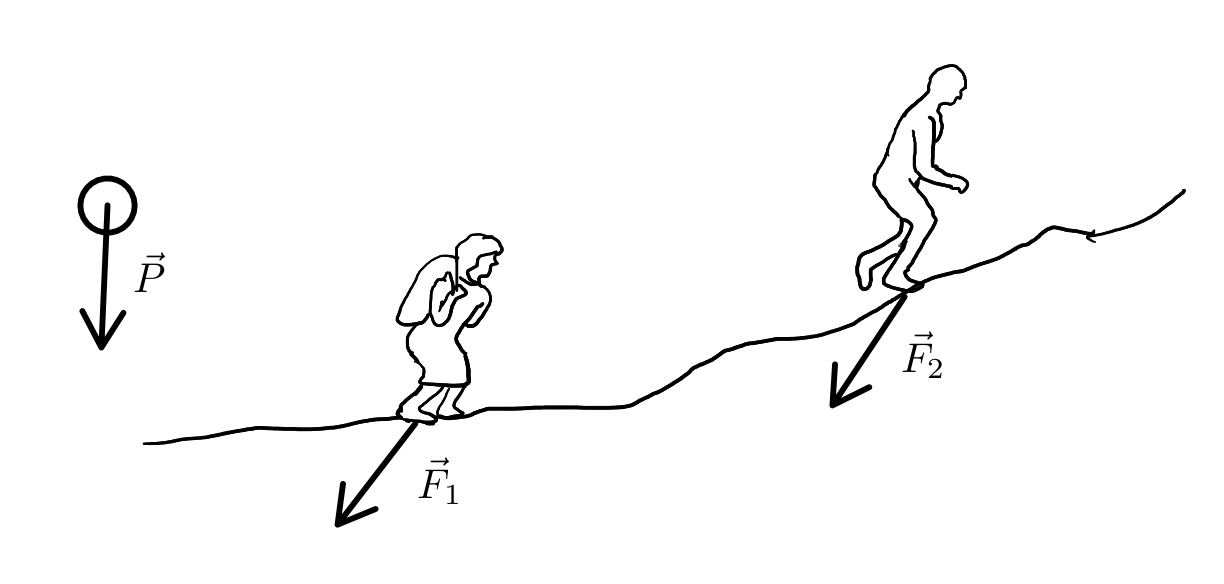
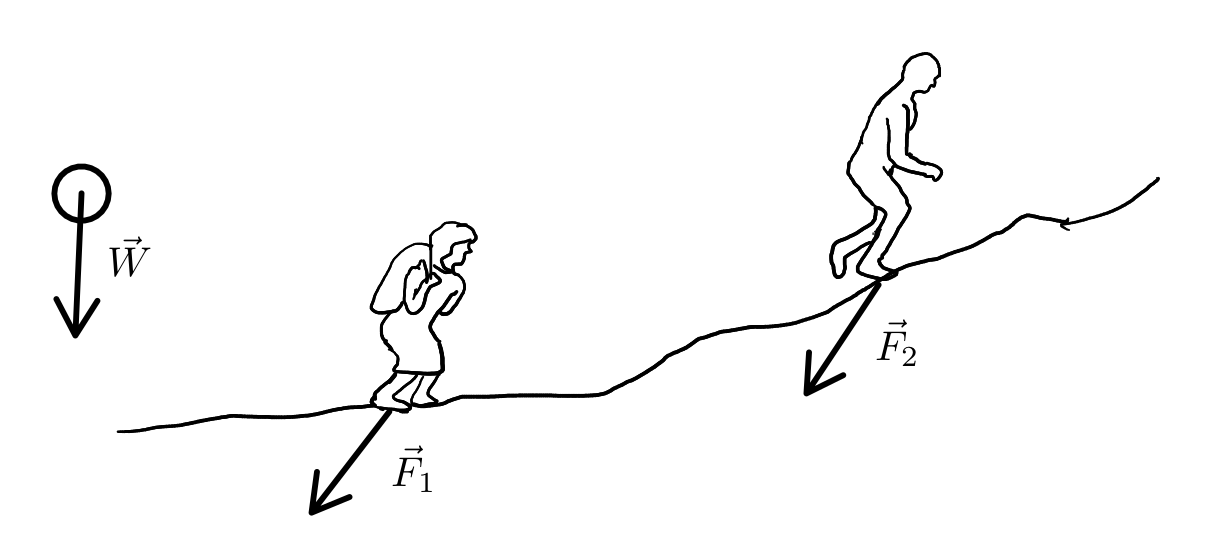
More contents for the vectors chapter.

diff --git a/mechanics/vectors.html b/mechanics/vectors.html
@@ -47,7 +47,6 @@ can be combined with the same rules as for real numbers: for example,
 we can add a mass, in kg, with other masses also in kg; we can divide
 a distance in km by a time in hours, to give a speed in km/h, and so
 on.</p>
-
 <p>In contrast to scalars, a <span class="concept">vector</span> is a
 physical quantity that in addition to
 its <span class="concept">magnitude</span> it also has
@@ -61,12 +60,12 @@ vectors by letters with an arrow over them ,for instance a force
 bars: <math id="eqn2" display="inline"><mrow><mo stretchy="false">&#x0007C;</mo><mover><mrow><mi>F</mi></mrow><mo stretchy="false">&#x02192;</mo></mover><mo stretchy="false">&#x0007C;</mo></mrow></math>. In cases when <math id="eqn3" display="inline"><mrow><mi>F</mi></mrow></math> cannot be confused with other
 scalar quantities, we will simply write the magnitude of <math id="eqn4" display="inline"><mrow><mover><mrow><mi>F</mi></mrow><mo stretchy="false">&#x02192;</mo></mover></mrow></math> as
 <math id="eqn5" display="inline"><mrow><mi>F</mi></mrow></math>. The magnitude of a vector is a scalar.</p>
-<p>Figure 1.1 shows three forces; the weight <math id="eqn6" display="inline"><mrow><mover><mrow><mi>P</mi></mrow><mo stretchy="false">&#x02192;</mo></mover></mrow></math> of a 10 kg
+<p>Figure 1.1 shows three forces; the weight <math id="eqn6" display="inline"><mrow><mover><mrow><mi>W</mi></mrow><mo stretchy="false">&#x02192;</mo></mover></mrow></math> of a 10 kg
 sphere, which has magnitude of 98 N and points downwards in the
 vertical, and the forces <math id="eqn7" display="inline"><mrow><msub><mover><mrow><mi>F</mi></mrow><mo stretchy="false">&#x02192;</mo></mover><mn>1</mn></msub></mrow></math> and <math id="eqn8" display="inline"><mrow><msub><mover><mrow><mi>F</mi></mrow><mo stretchy="false">&#x02192;</mo></mover><mn>2</mn></msub></mrow></math> exerted by one
 the feet of a woman and a man on the ground.</p>
 <figure class="center" id="vectors-forces">
-<img class="fig" src="img/vectors-forces.png" style="width:26.250em;max-width:100%;height:auto">
+<img class="fig" src="img/vectors-forces.png" style="width:25.326em;max-width:100%;height:auto">
 <figcaption><b>Figure 1.1:</b> Three examples of forces: the weight of
 an object and the forces exerted by two persons on the
 ground.</figcaption>
@@ -115,7 +114,7 @@ two forces, obtained by placing <math id="eqn19" display="inline"><mrow><msub><m
 </div>
 <p>and the distance QS is then <math id="eqn22" display="inline"><mrow><mrow><mi mathvariant="normal">Q</mi><mi mathvariant="normal">R</mi></mrow><mo>&#x0002B;</mo><mrow><mi mathvariant="normal">R</mi><mi mathvariant="normal">S</mi></mrow><mo>&#x0003D;</mo><mn>600</mn></mrow></math>. The
 magnitude of the total force is the hypotenuse of the triangle PQR
-which is obtained from Pythagoras theorem:</p>
+which is obtained from the Pythagorean theorem:</p>
 <div class="eqnalign">
 <math id="eqn23" display="inline"><mrow><mrow><mi>F</mi><mo>&#x0003D;</mo><msqrt><mrow><msup><mrow><mo stretchy="true" fence="true" form="prefix">&#x00028;</mo><mn>200</mn><msqrt><mrow><mn>3</mn></mrow></msqrt><mo stretchy="true" fence="true" form="postfix">&#x00029;</mo></mrow><mn>2</mn></msup><mo>&#x0002B;</mo><msup><mn>600</mn><mn>2</mn></msup></mrow></msqrt><mo>&#x0003D;</mo><mn>692.8</mn><mspace width="0.278em" /><mi>&#x0004E;</mi></mrow></mrow></math>
 </div>
@@ -164,16 +163,52 @@ direction to <math id="eqn44" display="inline"><mrow><mover><mrow><mi>A</mi></mr
 <figcaption><b>Figure 1.4:</b> Negative of a vector <math id="eqn45" display="inline"><mrow><mover><mrow><mi>A</mi></mrow><mo stretchy="false">&#x02192;</mo></mover></mrow></math>.</figcaption>
 </figure>
 <p>In the case of forces, the uniqueness of the negative means that
-the only way to suppress the effect of a force is by adding another
+the only way to cancel the effect of a force is by adding another
 force with the same magnitude but opposite direction.</p>
 <div class="example" id="ex1.2">
 <span class="example_heading">Example 1.2</span>
 <p>A box weighing 50 N is hanged from the ceiling by two strings, as
 shown in the figure. Find the forces in the two strings.</p>
 <img class="fig center" src="img/vectors-equilibrium.png"
-     style="width:19.950em;max-width:100%;height:auto;padding-bottom:12pt">
+     style="width:19.950em;max-width:100%;height:auto;padding-bottom:6pt">
 <br>
 </div>
+<p><b>Solution:</b> Since the block remains at rest, its weight must be
+canceled by the some of the forces in the two strings. Thus, if
+<math id="eqn46" display="inline"><mrow><msub><mover><mrow><mi>T</mi></mrow><mo stretchy="false">&#x02192;</mo></mover><mn>1</mn></msub></mrow></math> and <math id="eqn47" display="inline"><mrow><msub><mover><mrow><mi>T</mi></mrow><mo stretchy="false">&#x02192;</mo></mover><mn>2</mn></msub></mrow></math> are the forces exerted by the two strings
+and <math id="eqn48" display="inline"><mrow><mover><mrow><mi>W</mi></mrow><mo stretchy="false">&#x02192;</mo></mover></mrow></math> is weight of the box, we have:</p>
+<div class="eqnalign">
+<math id="eqn49" display="inline"><mrow><mrow><msub><mover><mrow><mi>T</mi></mrow><mo stretchy="false">&#x02192;</mo></mover><mn>1</mn></msub><mo>&#x0002B;</mo><msub><mover><mrow><mi>T</mi></mrow><mo stretchy="false">&#x02192;</mo></mover><mn>2</mn></msub><mo>&#x0003D;</mo><mo>&#x02212;</mo><mover><mrow><mi>W</mi></mrow><mo stretchy="false">&#x02192;</mo></mover></mrow></mrow></math>
+</div>
+<p>The left-hand side of the following image shows those three forces
+and the right-hand side shows a triangle similar to the triangle that
+the string on the right forms with the horizontal and vertical lines
+(the sides were divided by 10 cm for simplicity).</p>
+<img class="fig center" src="img/vectors-equilibrium_solution.png" style="width:18.039em;max-width:100%;height:auto">
+<p>There are two right-angled triangles in the forces diagram above,
+PQS and QRS, and their hypotenuses are the magnitudes of the tensions
+in the two strings. We can then write two equations involving <math id="eqn50" display="inline"><mrow><msub><mi>T</mi><mn>1</mn></msub></mrow></math>
+and <math id="eqn51" display="inline"><mrow><msub><mi>T</mi><mn>2</mn></msub></mrow></math>:</p>
+<div class="eqnalign">
+<math id="eqn52" display="inline"><mrow><mtable displaystyle="true" rowspacing="3pt" columnspacing="0em 2em"><mtr><mtd columnalign="right" /><mtd columnalign="left"><mi /><mrow><mi mathvariant="normal">Q</mi><mi mathvariant="normal">S</mi></mrow><mo>&#x0003D;</mo><msub><mi>T</mi><mn>1</mn></msub><mspace width="0.167em" /><mi>sin</mi><msup><mn>45</mn><mo>&#x02218;</mo></msup><mo>&#x0003D;</mo><msub><mi>T</mi><mn>2</mn></msub><mspace width="0.167em" /><mi>cos</mi><mi>&#x003B8;</mi></mtd></mtr><mtr><mtd columnalign="right" /><mtd columnalign="left"><mi /><mrow><mi mathvariant="normal">P</mi><mi mathvariant="normal">S</mi></mrow><mo>&#x0002B;</mo><mrow><mi mathvariant="normal">R</mi><mi mathvariant="normal">S</mi></mrow><mo>&#x0003D;</mo><msub><mi>T</mi><mn>1</mn></msub><mspace width="0.167em" /><mi>cos</mi><msup><mn>45</mn><mo>&#x02218;</mo></msup><mo>&#x0002B;</mo><msub><mi>T</mi><mn>2</mn></msub><mspace width="0.167em" /><mi>sin</mi><mi>&#x003B8;</mi><mo>&#x0003D;</mo><mn>50</mn></mtd></mtr></mtable></mrow></math>
+</div>
+<p>Both the sine and cosine of 45° are <math id="eqn53" display="inline"><mrow><mi>\</mi><mo>&#x0002F;</mo><msqrt><mrow><mn>2</mn></mrow></msqrt></mrow></math> and <math id="eqn54" display="inline"><mrow><mi>sin</mi><mi>&#x003B8;</mi></mrow></math>
+and <math id="eqn55" display="inline"><mrow><mi>cos</mi><mi>&#x003B8;</mi></mrow></math> are obtained from the right-hand side triangle in the
+figure above. The two equations then become,</p>
+<div class="eqnalign">
+<math id="eqn56" display="inline"><mrow><mrow><mstyle displaystyle="true" scriptlevel="0"><mfrac><mrow><msub><mi>T</mi><mn>1</mn></msub></mrow><mrow><msqrt><mrow><mn>2</mn></mrow></msqrt></mrow></mfrac></mstyle><mo>&#x0003D;</mo><mstyle displaystyle="true" scriptlevel="0"><mfrac><mrow><mn>2</mn><msub><mi>T</mi><mn>2</mn></msub></mrow><mrow><msqrt><mrow><mn>5</mn></mrow></msqrt></mrow></mfrac></mstyle><mspace width="2em" /><mstyle displaystyle="true" scriptlevel="0"><mfrac><mrow><msub><mi>T</mi><mn>1</mn></msub></mrow><mrow><msqrt><mrow><mn>2</mn></mrow></msqrt></mrow></mfrac></mstyle><mo>&#x0002B;</mo><mstyle displaystyle="true" scriptlevel="0"><mfrac><mrow><msub><mi>T</mi><mn>2</mn></msub></mrow><mrow><msqrt><mrow><mn>5</mn></mrow></msqrt></mrow></mfrac></mstyle><mo>&#x0003D;</mo><mn>50</mn></mrow></mrow></math>
+</div>
+<p>Subtracting the two equations we eliminate <math id="eqn57" display="inline"><mrow><msub><mi>T</mi><mn>1</mn></msub></mrow></math> and can find
+<math id="eqn58" display="inline"><mrow><msub><mi>T</mi><mn>2</mn></msub></mrow></math>, which is then replaced in one of the two equations to obtain
+<math id="eqn59" display="inline"><mrow><msub><mi>T</mi><mn>2</mn></msub></mrow></math>. The result is:</p>
+<div class="eqnalign">
+<math id="eqn60" display="inline"><mrow><mrow><msub><mi>T</mi><mn>1</mn></msub><mo>&#x0003D;</mo><mstyle displaystyle="true" scriptlevel="0"><mfrac><mrow><mn>100</mn></mrow><mrow><mn>3</mn></mrow></mfrac></mstyle><msqrt><mrow><mn>2</mn></mrow></msqrt><mo>&#x0003D;</mo><mn>47.14</mn><mspace width="0.278em" /><mi>&#x0004E;</mi><mspace width="2em" /><msub><mi>T</mi><mn>2</mn></msub><mo>&#x0003D;</mo><mstyle displaystyle="true" scriptlevel="0"><mfrac><mrow><mn>50</mn></mrow><mrow><mn>3</mn></mrow></mfrac></mstyle><msqrt><mrow><mn>5</mn></mrow></msqrt><mo>&#x0003D;</mo><mn>37.27</mn><mspace width="0.278em" /><mi>&#x0004E;</mi></mrow></mrow></math>
+</div>
+<p>and the directions of <math id="eqn61" display="inline"><mrow><mover><mrow><msub><mi>T</mi><mn>1</mn></msub></mrow><mo stretchy="false">&#x02192;</mo></mover></mrow></math> and <math id="eqn62" display="inline"><mrow><mover><mrow><msub><mi>T</mi><mn>2</mn></msub></mrow><mo stretchy="false">&#x02192;</mo></mover></mrow></math> are pointing upwards along
+the two strings.</p>
+</section>
+<section>
+<h2>Scalar multiplication</h2>
 </section>
 <footer>
 <p>&copy; 2025, Jaime E. Villate</p>
@@ -181,7 +216,7 @@ shown in the figure. Find the forces in the two strings.</p>
 href="http://creativecommons.org/licenses/by-sa/4.0/"
 rel="license">Creative Commons Attribution-ShareAlike 4.0
 International License</a>.</p>
-<span>Last modified: 2025/02/10 13:07:26 UTC</span>
+<span>Last modified: 2025/02/10 18:49:26 UTC</span>
 </footer>
 </body>
 </html>
